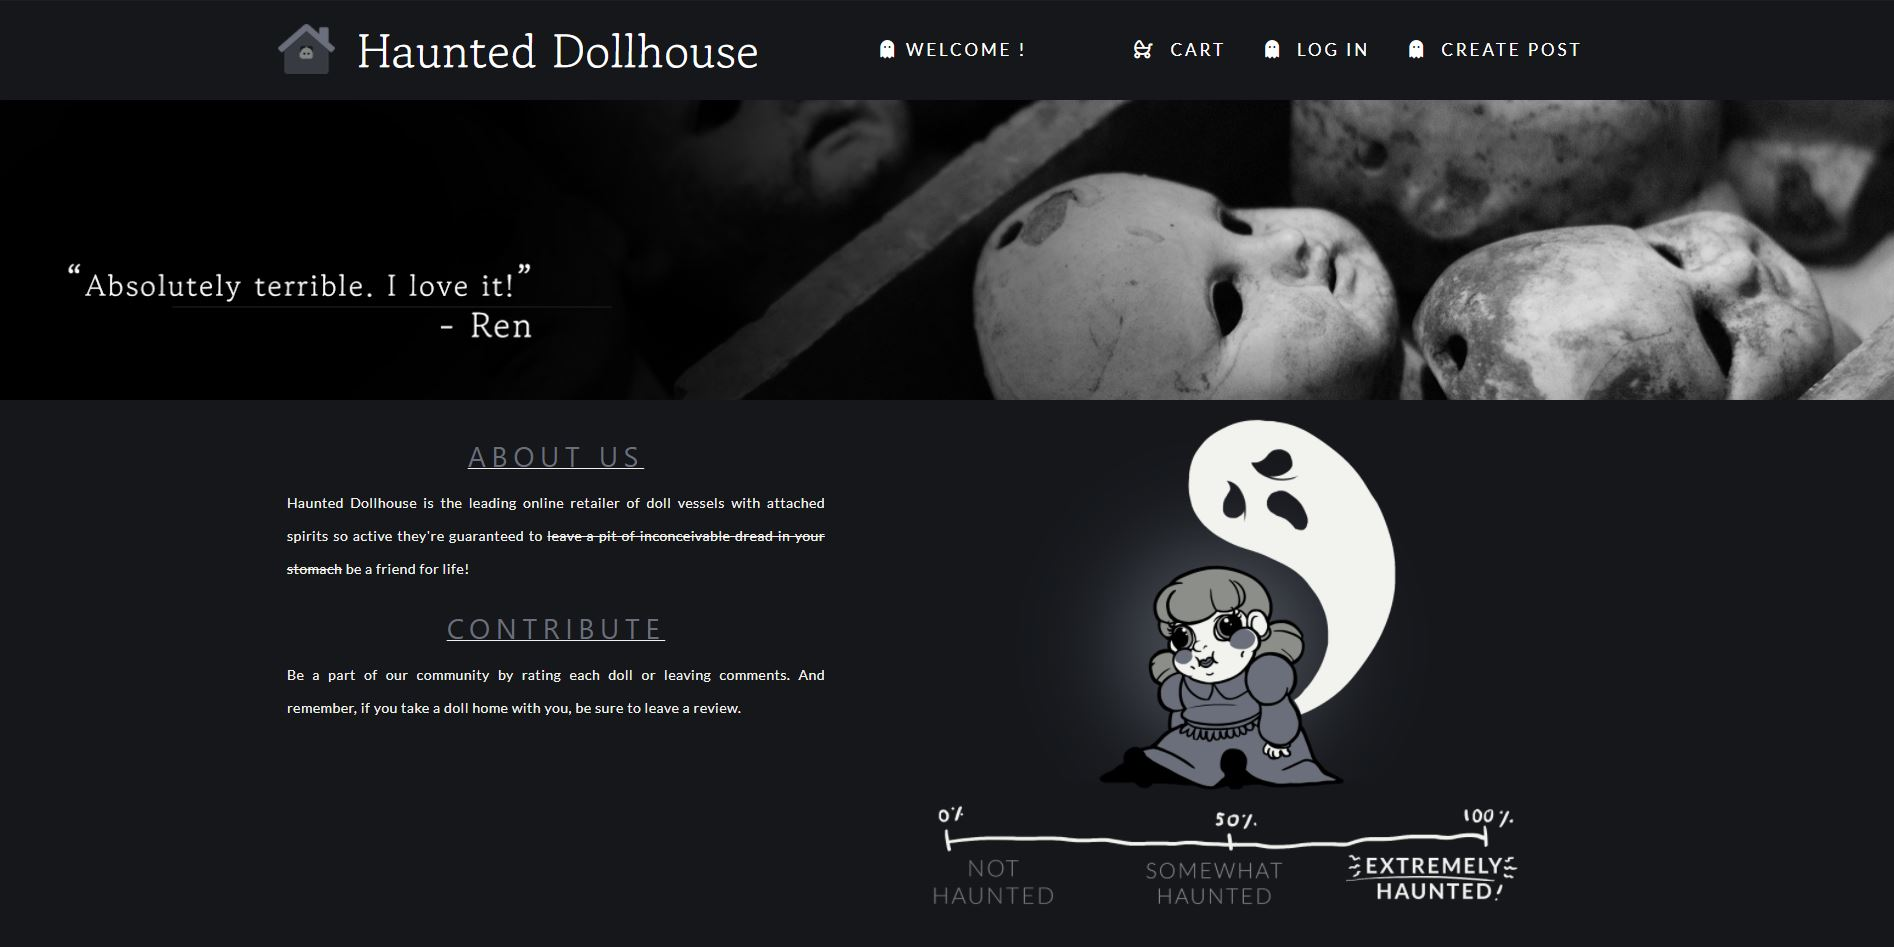
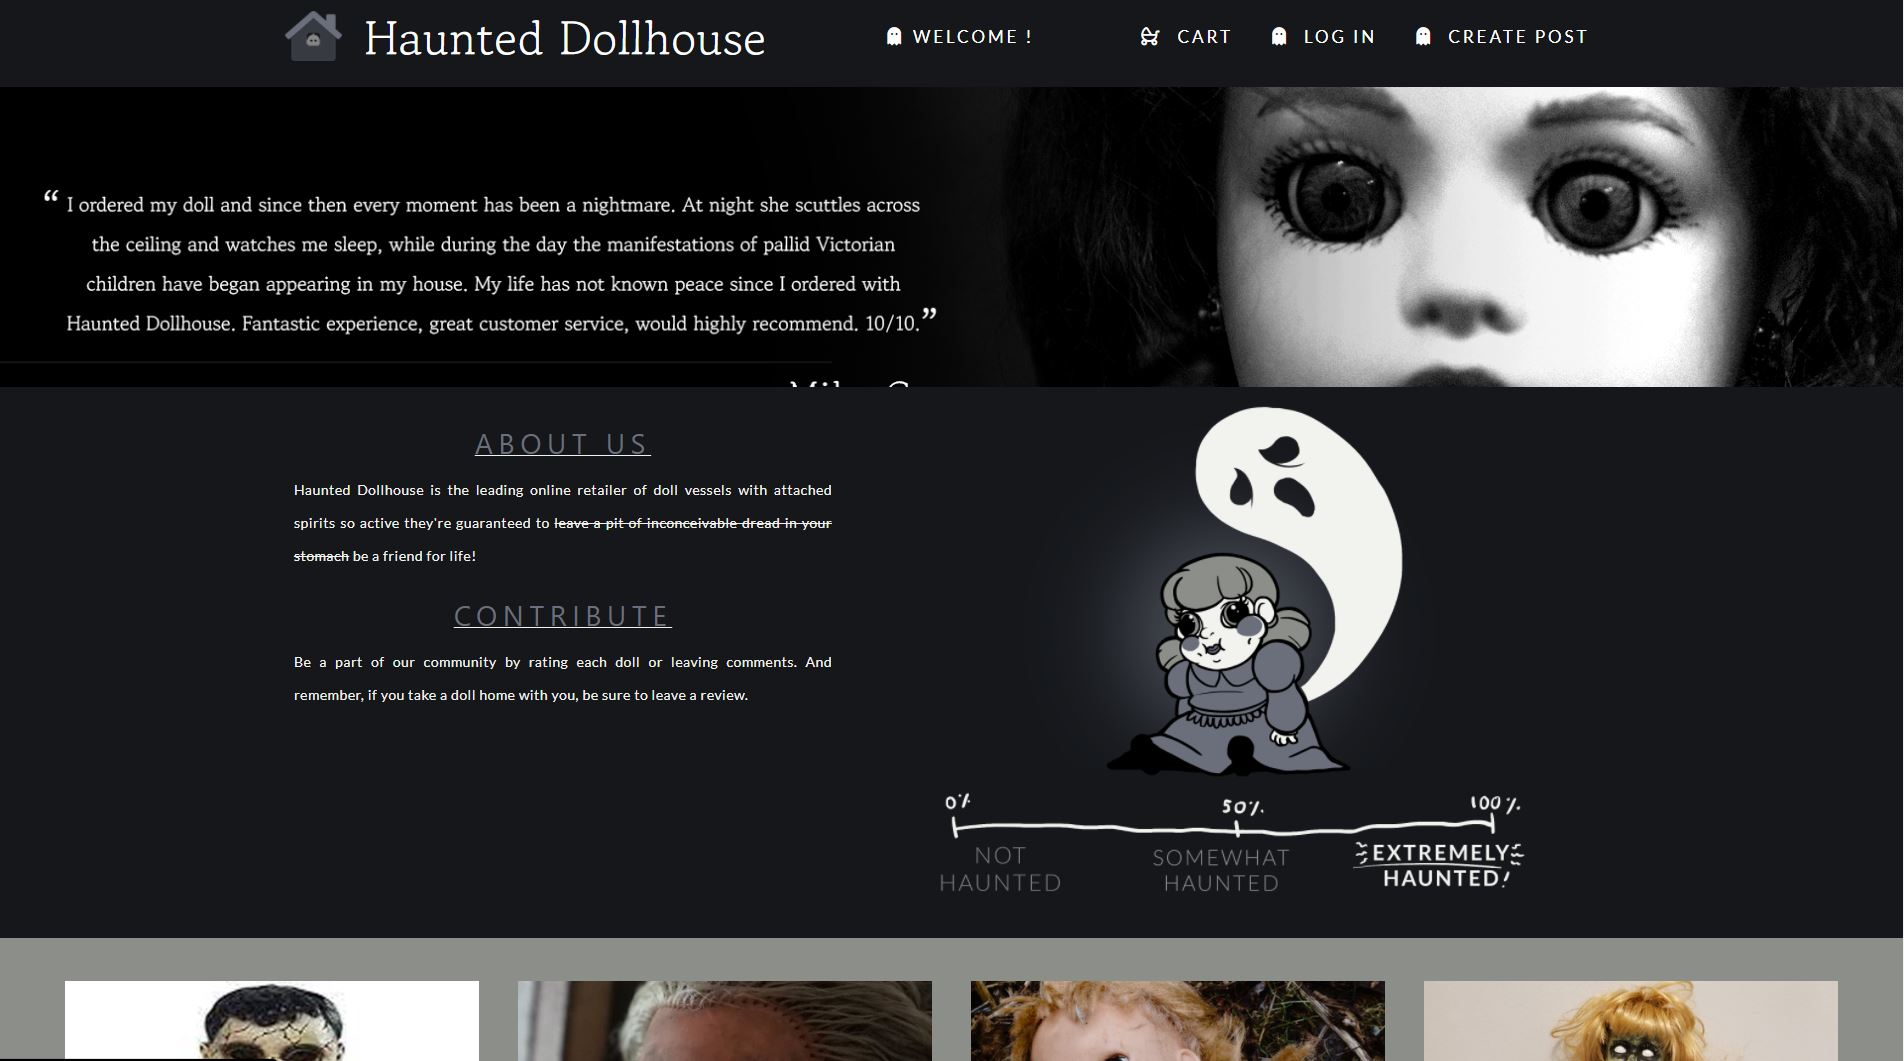
About Me, and Projects Finalized

diff --git a/src/components/About-Me.js b/src/components/About-Me.js
@@ -5,12 +5,19 @@ export default function About() {
         <section id="about-me">
 
         <div className="container mx-auto flex px-10 py-20 md:flex-row flex-col items-center">
+            
             <div className="lg:flex-grow md:w-1/2 lg:pr-24 md:pr-16 flex flex-col md:items-start md:text-left mb-16 md:mb-0 items-center text-center">
-                <h1 className="title-font sm:text-4xl text-3xl mb-4 font-medium text-white">
+              
+                <h1 className="title-font sm:text-4xl text-3xl mb-5 font-LARGE text-white">
                     I'm Austin Huffman.
                 </h1>
+                
+                <p className="mb-8 leading-relaxed">
+                I got my start at the wee age of 15 (Back in 2012) creating educational Unity Games for my high-school homework assignments. Why make a powerpoint when I could make a game? I then decided to take my passion to college and get my Bachelors in Computer Game Development and Design. This program was Computer Science focused and I got my Minor in CS, as well as a focus on Software Engineering. I am currently attending a Georgia Institute of Technology bootcamp and working with two other extremely talented engineers to create our own Web App E-Commerce Bulletin to show off the skills I acquired in the camp but as this is still a work in progress you'll have to stay tuned. I am looking to jump start my career get my foot in the door with my first CS job. This is my passion. I want to create and make applications that improve peoples lives. And mostly, I'm a problem solver always looking to learn, improve, and grow
+                </p>
             </div>
         </div>
+        
 
         <div className="flex justify-center">
             <a
@@ -25,13 +32,6 @@ export default function About() {
               Check Out What I'm Up To!
             </a>
 
-            {/* <div className="lg:max-w-lg lg:w-full md:w-1/2 w-5/6">
-              <img
-                className="object-cover object-center rounded"
-                alt="hero"
-                src="./coding.svg"
-              />
-            </div> */}
 
           </div>
         </section>

diff --git a/src/components/Skills.js b/src/components/Skills.js
@@ -14,9 +14,7 @@ export default function Skills() {
               </h1>
 
               <p className="text-base leading-relaxed xl:w-2/4 lg:w-3/4 mx-auto">
-                Lorem ipsum dolor sit amet consectetur, adipisicing elit. Nisi sit
-                ipsa delectus eum quo voluptas aspernatur accusantium distinctio
-                possimus est.
+                 From self-taught hobby programmer, to college graduate in computer game development, to full stack web developer, I've acquired many useful skills. 
               </p>
 
             </div>

diff --git a/src/components/Projects.js b/src/components/Projects.js
@@ -16,9 +16,7 @@ export default function Projects() {
           </h1>
           
           <p className="lg:w-2/3 mx-auto leading-relaxed text-base">
-            Lorem ipsum, dolor sit amet consectetur adipisicing elit. Explicabo
-            facilis repellat ab cupiditate alias vero aliquid obcaecati quisquam
-            fuga dolore.
+            Take a look at some of the Projects I've been making! I love working on a team and growing not only my own skills, but helping others grow in their passions as well!
           </p>
         </div>
 

diff --git a/src/data.js b/src/data.js
@@ -32,10 +32,15 @@ export const skills = [
     'React',
     'MongoDB',
     'Express',
+    'NodeJS',
     'HTML',
     'CSS',
     'Jquery',
     'NextJS',
     'C#',
     'SQL',
+    'Unity',
+    '3ds Max',
+    'Adobe Photoshop',
+    'Adobe Premier'
 ]
